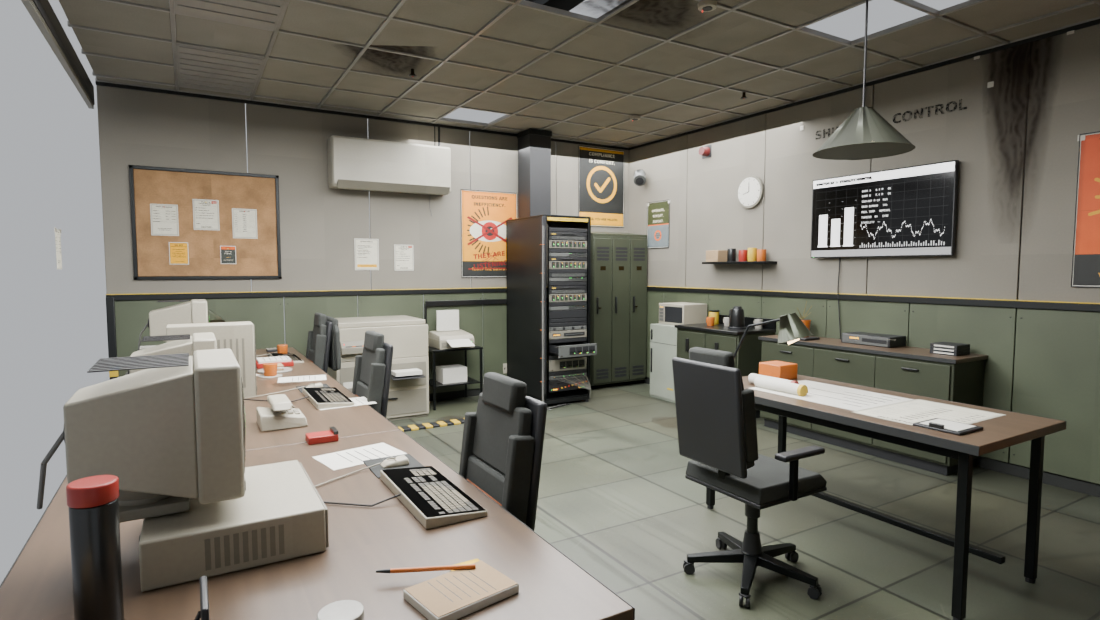
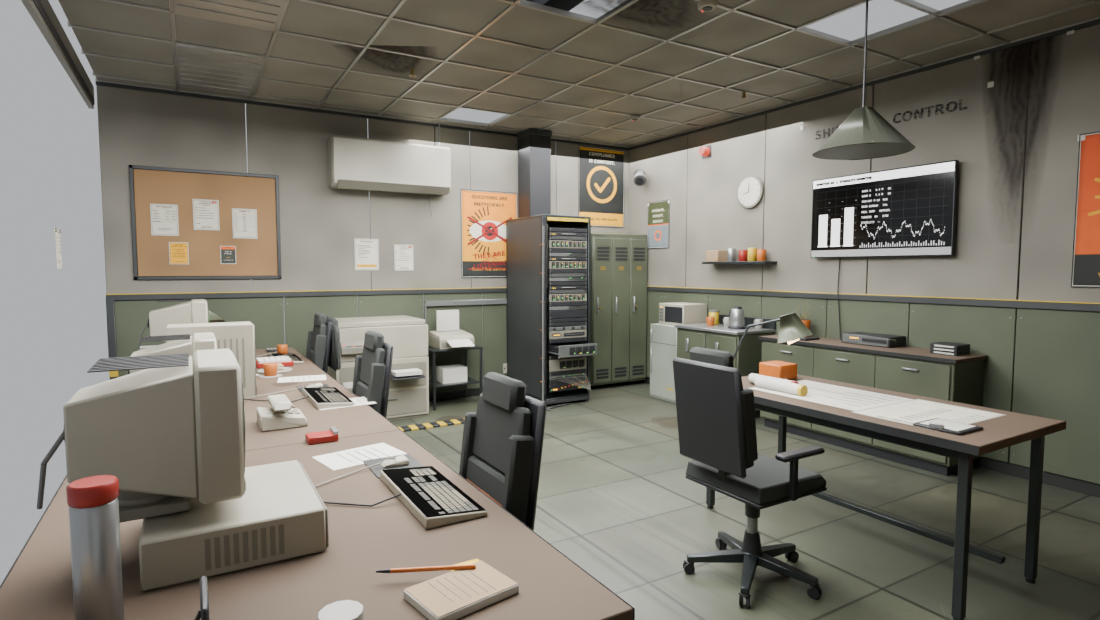
Control room: seven shared material families (63 -> 31 materials), vertex-colour delivery
Claude-Session: https://claude.ai/code/session_01MZn6W3mktoSNAd4EhQyGwJ

diff --git a/sections/reactor-room/production/overhaul-R1/scripts/cr_families.py b/sections/reactor-room/production/overhaul-R1/scripts/cr_families.py
@@ -1,0 +1,111 @@
+"""Shared material families for the control room (design/MATERIAL_BUDGETS.md, approved budgets).
+usage: python cr_families.py -- <in.blend> <out.blend>   (run after cr_build, cr_optimize and cr_atlas_decals)
+Every procedural spawn-recipe material ('pm' materials carry their recipe as pm_* custom props) is replaced by ONE of seven family materials.
+The per-surface values of the old recipe travel on the mesh instead of in a material:
+    colour attribute 'Col'  = RGB base colour (linear), A = roughness
+    colour attribute 'Mat'  = R metallic, G bump strength, B albedo-variation strength, A painted-edge highlight (0/1)
+The family shader reads those two attributes (same recipe: low-frequency albedo variation, fine grain, roughness noise, fine bump, bevel-edge
+highlight), so one material draws what used to be many.  Objects of the same group and family are then joined.
+Emissive, image (decals, screens, keyboard), glass and haze materials are NOT touched here (next step of the budget).
+In an engine the two attributes collapse to the glTF vertex colour (tint + roughness) plus a baked family tile; the Cycles bevel highlight is not exported."""
+import bpy,sys,os,re,collections
+import numpy as np
+A=sys.argv[sys.argv.index("--")+1:]; SRC,DST=A[0],A[1]
+bpy.ops.wm.open_mainfile(filepath=SRC)
+C=bpy.data.collections["31 CR CONTROL ROOM REDO"]
+FAM=[  # (family, noise scale for the low-frequency variation, regexes of the old materials)
+ ("S01 painted metal",2.5,r"hazard|signal red|locker|lamp shade|fridge|aircon|trim charcoal|desk edge|mug"),
+ ("S02 bare metal",3.0,r"galvanised|graphite|brass|ceiling grid"),
+ ("S03 plaster and tile",2.0,r"wall |ceiling tile"),
+ ("S05 plastic and rubber",2.5,r"black plastic|grey plastic|platinum|keycap|rubber"),
+ ("S06 fabric",3.0,r"fabric|canvas|blanket|pillow"),
+ ("S07 wood paper organic",4.0,r"laminate|cardboard|paper|cork|dead leaf|dry soil"),
+ ("S09 cable",3.0,r"cable"),
+]
+def family_of(name):
+    for fam,sc,rx in FAM:
+        if re.search(rx,name.lower().replace("cr ","",1)): return fam
+    return None
+def _n(nt,t,x=0,y=0):
+    n=nt.nodes.new(t); n.location=(x,y); return n
+def build_family(name,scale):
+    old=bpy.data.materials.get(name)
+    if old: bpy.data.materials.remove(old)
+    m=bpy.data.materials.new(name); m.use_nodes=True; nt=m.node_tree; nt.nodes.clear()
+    out=_n(nt,"ShaderNodeOutputMaterial",2000,0); b=_n(nt,"ShaderNodeBsdfPrincipled",1700,0); nt.links.new(b.outputs['BSDF'],out.inputs['Surface'])
+    col=_n(nt,"ShaderNodeAttribute",0,300); col.attribute_type='GEOMETRY'; col.attribute_name="Col"
+    mat=_n(nt,"ShaderNodeAttribute",0,-100); mat.attribute_type='GEOMETRY'; mat.attribute_name="Mat"
+    sepm=_n(nt,"ShaderNodeSeparateColor",250,-100); nt.links.new(mat.outputs['Color'],sepm.inputs[0])
+    geo=_n(nt,"ShaderNodeNewGeometry",0,-450)
+    nz=_n(nt,"ShaderNodeTexNoise",250,500); nz.inputs['Scale'].default_value=scale; nz.inputs['Detail'].default_value=2.0; nz.inputs['Roughness'].default_value=0.55
+    nt.links.new(geo.outputs['Position'],nz.inputs['Vector'])
+    mr=_n(nt,"ShaderNodeMapRange",450,500); mr.inputs['From Min'].default_value=0.32; mr.inputs['From Max'].default_value=0.68; mr.inputs['To Min'].default_value=0.87; mr.inputs['To Max'].default_value=1.05
+    nt.links.new(nz.outputs['Fac'],mr.inputs['Value'])
+    dv=_n(nt,"ShaderNodeMath",650,500); dv.operation='SUBTRACT'; dv.inputs[1].default_value=1.0; nt.links.new(mr.outputs['Result'],dv.inputs[0])
+    sv=_n(nt,"ShaderNodeMath",800,500); sv.operation='MULTIPLY_ADD'; sv.inputs[2].default_value=1.0; nt.links.new(dv.outputs['Value'],sv.inputs[0]); nt.links.new(sepm.outputs[2],sv.inputs[1])   # 1 + (v-1)*var
+    fz=_n(nt,"ShaderNodeTexNoise",250,150); fz.inputs['Scale'].default_value=70.0; fz.inputs['Detail'].default_value=3.0; nt.links.new(geo.outputs['Position'],fz.inputs['Vector'])
+    fm=_n(nt,"ShaderNodeMapRange",450,150); fm.inputs['From Min'].default_value=0.3; fm.inputs['From Max'].default_value=0.7; fm.inputs['To Min'].default_value=0.96; fm.inputs['To Max'].default_value=1.04
+    nt.links.new(fz.outputs['Fac'],fm.inputs['Value'])
+    g=_n(nt,"ShaderNodeMath",950,300); g.operation='MULTIPLY'; nt.links.new(sv.outputs['Value'],g.inputs[0]); nt.links.new(fm.outputs['Result'],g.inputs[1])
+    vs=_n(nt,"ShaderNodeVectorMath",1100,300); vs.operation='SCALE'; nt.links.new(col.outputs['Color'],vs.inputs[0]); nt.links.new(g.outputs['Value'],vs.inputs[3])
+    bev=_n(nt,"ShaderNodeBevel",900,-450); bev.inputs['Radius'].default_value=0.004; bev.samples=4
+    dt=_n(nt,"ShaderNodeVectorMath",1100,-450); dt.operation='DOT_PRODUCT'; nt.links.new(bev.outputs['Normal'],dt.inputs[0]); nt.links.new(geo.outputs['Normal'],dt.inputs[1])
+    em=_n(nt,"ShaderNodeMapRange",1300,-450); em.inputs['From Min'].default_value=0.9985; em.inputs['From Max'].default_value=0.94; nt.links.new(dt.outputs['Value'],em.inputs['Value'])
+    ef=_n(nt,"ShaderNodeMath",1450,-450); ef.operation='MULTIPLY'; nt.links.new(em.outputs['Result'],ef.inputs[0]); nt.links.new(mat.outputs['Alpha'],ef.inputs[1])
+    hi=_n(nt,"ShaderNodeVectorMath",1300,150); hi.operation='SCALE'; hi.inputs[3].default_value=1.35; nt.links.new(vs.outputs[0],hi.inputs[0])
+    mx=_n(nt,"ShaderNodeMix",1500,150); mx.data_type='RGBA'; nt.links.new(ef.outputs['Value'],mx.inputs[0]); nt.links.new(vs.outputs[0],mx.inputs[6]); nt.links.new(hi.outputs[0],mx.inputs[7])
+    nt.links.new(mx.outputs[2],b.inputs['Base Color']); nt.links.new(sepm.outputs[0],b.inputs['Metallic'])
+    rz=_n(nt,"ShaderNodeTexNoise",250,-800); rz.inputs['Scale'].default_value=4.0; rz.inputs['Detail'].default_value=2.0; nt.links.new(geo.outputs['Position'],rz.inputs['Vector'])
+    rr=_n(nt,"ShaderNodeMapRange",450,-800); rr.inputs['From Min'].default_value=0.3; rr.inputs['From Max'].default_value=0.7; rr.inputs['To Min'].default_value=0.9; rr.inputs['To Max'].default_value=1.1
+    nt.links.new(rz.outputs['Fac'],rr.inputs['Value'])
+    rm=_n(nt,"ShaderNodeMath",700,-800); rm.operation='MULTIPLY'; rm.use_clamp=True; nt.links.new(col.outputs['Alpha'],rm.inputs[0]); nt.links.new(rr.outputs['Result'],rm.inputs[1])
+    nt.links.new(rm.outputs['Value'],b.inputs['Roughness'])
+    bz=_n(nt,"ShaderNodeTexNoise",250,-1000); bz.inputs['Scale'].default_value=140.0; bz.inputs['Detail'].default_value=3.0; nt.links.new(geo.outputs['Position'],bz.inputs['Vector'])
+    bp=_n(nt,"ShaderNodeBump",1500,-800); bp.inputs['Distance'].default_value=0.02; nt.links.new(sepm.outputs[1],bp.inputs['Strength']); nt.links.new(bz.outputs['Fac'],bp.inputs['Height']); nt.links.new(bp.outputs['Normal'],b.inputs['Normal'])
+    return m
+fams={}; stats=collections.Counter(); skipped=collections.Counter()
+for fam,sc,_ in FAM: fams[fam]=build_family("CR FAM "+fam,sc)
+objs=[o for o in C.all_objects if o.type=='MESH']
+for o in objs:
+    me=o.data; mt=list(me.materials)
+    tgt=[None]*len(mt)
+    for i,m in enumerate(mt):
+        if m is not None and m.get("pm_base") is not None:
+            f=family_of(m.name)
+            if f: tgt[i]=f
+            else: skipped[m.name]+=1
+    if not any(tgt): continue
+    L=len(me.loops); col=np.tile(np.array([0.5,0.5,0.5,0.5],dtype=np.float32),(L,1)); mat=np.tile(np.array([0,0.06,1,0],dtype=np.float32),(L,1))
+    for p in me.polygons:
+        i=p.material_index
+        if i<len(mt) and tgt[i]:
+            m=mt[i]; b=m["pm_base"]; li=list(p.loop_indices)
+            col[li]=(b[0],b[1],b[2],m["pm_rough"]); mat[li]=(m["pm_metal"],m["pm_bump"],m["pm_var"],1.0 if len(m["pm_edge"]) else 0.0)
+            stats[m.name]+=len(li)
+    for nm,arr in (("Col",col),("Mat",mat)):
+        ca=me.color_attributes.get(nm) or me.color_attributes.new(nm,'FLOAT_COLOR','CORNER'); ca.data.foreach_set("color",arr.reshape(-1))
+    # slots: one per family, untouched materials keep theirs
+    new=[fams[t] if t else m for t,m in zip(tgt,mt)]; uniq=[]
+    for m in new:
+        if m not in uniq: uniq.append(m)
+    idx=[uniq.index(m) for m in new]
+    for p in me.polygons: p.material_index=idx[p.material_index] if p.material_index<len(idx) else 0
+    me.materials.clear()
+    for m in uniq: me.materials.append(m)
+# join objects of the same (group, family) that carry exactly one material
+def group(o): mm=re.match(r"CR (\w+)",o.name); return mm.group(1) if mm else ""
+SKIP=("tv","text","beacon","haze","COL","glassnote","grime","marks")
+by=collections.defaultdict(list)
+for o in [o for o in C.all_objects if o.type=='MESH' and not o.name.startswith(("COL ","CR haze"))]:
+    if len(o.data.materials)==1 and o.data.materials[0] in fams.values() and group(o) not in SKIP and not o.animation_data and o.data.uv_layers:
+        o.data.uv_layers[0].name="UVMap"; by[(group(o),o.data.materials[0].name)].append(o)
+for (g,mn),lst in by.items():
+    if len(lst)<2: continue
+    for o in bpy.context.view_layer.objects: o.select_set(False)
+    for o in lst: o.select_set(True)
+    bpy.context.view_layer.objects.active=lst[0]; bpy.ops.object.join(); lst[0].name="CR %s %s"%(g,mn[7:].split(" ")[0])
+for m in [m for m in bpy.data.materials if m.get("pm_base") is not None and m.users==0]: bpy.data.materials.remove(m)
+used={x.name for o in C.all_objects if o.type=='MESH' for x in o.data.materials if x}
+print("families built",len(fams),"; old recipe materials replaced:",len(stats),"; left alone (no family rule):",dict(skipped))
+print("control-room materials in use now:",len(used),"; mesh objects:",sum(1 for o in C.all_objects if o.type=='MESH' and not o.name.startswith(("COL ","CR haze"))))
+bpy.ops.wm.save_as_mainfile(filepath=DST)

diff --git a/sections/reactor-room/production/overhaul-R1/scripts/cr_delivery.py b/sections/reactor-room/production/overhaul-R1/scripts/cr_delivery.py
@@ -47,7 +47,8 @@ plan={}
 for m in mats:
     b=principled(m)
     if b is None: plan[m.name]="keep"; continue
-    if m.name=="CR floor tile": plan[m.name]="floor"
+    if m.name.startswith("CR FAM "): plan[m.name]="family"
+    elif m.name=="CR floor tile": plan[m.name]="floor"
     elif emission_strength(m)>0.05 and not b.inputs['Emission Color'].is_linked: plan[m.name]="emit"
     elif emission_strength(m)>0.05: plan[m.name]="emit_img"
     elif uv_image(m) is not None: plan[m.name]="keep"
@@ -73,6 +74,20 @@ if any(v=="bake" for v in plan.values()):
         im.pack(); tiles[name]=im; bpy.data.materials.remove(mc)
     bpy.data.objects.remove(po); bpy.data.meshes.remove(me)
 print("baked",len(tiles),"tiles in %.0f s"%(time.time()-bake_t))
+# families (cr_families.py): colour+roughness live on the mesh ('Col' RGB base, A roughness; 'Mat' R metallic) -> glTF COLOR_0 x one shared neutral grain tile
+fam_stats={}
+for o in src:
+    me=o.data
+    if "Col" not in me.color_attributes: continue
+    L=len(me.loops); ca=np.empty(L*4,dtype=np.float32); me.color_attributes["Col"].data.foreach_get("color",ca); ca=ca.reshape(-1,4)
+    ma=np.empty(L*4,dtype=np.float32); me.color_attributes["Mat"].data.foreach_get("color",ma); ma=ma.reshape(-1,4)
+    for p in me.polygons:
+        sm=o.material_slots[p.material_index].material if p.material_index<len(o.material_slots) else None
+        if sm is not None and plan.get(sm.name)=="family":
+            li=list(p.loop_indices); r,mt_,n=fam_stats.get(sm.name,(0.0,0.0,0)); fam_stats[sm.name]=(r+float(ca[li,3].sum()),mt_+float(ma[li,0].sum()),n+len(li))
+rng=np.random.default_rng(7); g=rng.random((64,64)).astype(np.float32); g=np.fft.irfft2(np.fft.rfft2(g)*np.exp(-((np.fft.fftfreq(64)[:,None]**2)+(np.fft.rfftfreq(64)[None,:]**2))*900),s=g.shape); g=(g-g.mean())/(g.std()+1e-6)
+g=np.repeat(np.repeat(np.clip(0.96+0.03*g,0.88,1.06),4,0),4,1)                     # 256 px neutral +-4% mottling, tileable enough at 1.2 m
+grain=bpy.data.images.new("CR family grain",256,256,alpha=False); grain.colorspace_settings.name='Non-Color'; grain.pixels.foreach_set(np.dstack([g,g,g,np.ones_like(g)]).astype(np.float32).reshape(-1)); grain.pack()
 def rough_of(m):
     b=principled(m)
     if b is None: return 0.6
@@ -96,10 +111,21 @@ def mk(name,base=None,tile=None,rough=0.6,metal=0.0,emit=None,emit_str=0.0,uvsca
     if emit is not None:
         b.inputs['Emission Color'].default_value=(*emit[:3],1); b.inputs['Emission Strength'].default_value=emit_str
     return m
+def mk_family(name,rough,metal):
+    m=bpy.data.materials.new(name); m.use_nodes=True; nt=m.node_tree; nt.nodes.clear()
+    out=nt.nodes.new("ShaderNodeOutputMaterial"); b=nt.nodes.new("ShaderNodeBsdfPrincipled"); nt.links.new(b.outputs['BSDF'],out.inputs['Surface'])
+    b.inputs['Roughness'].default_value=rough; b.inputs['Metallic'].default_value=metal
+    vc=nt.nodes.new("ShaderNodeVertexColor"); vc.layer_name="Col"
+    uvn=nt.nodes.new("ShaderNodeUVMap"); uvn.uv_map="UVMap"; tx=nt.nodes.new("ShaderNodeTexImage"); tx.image=grain; tx.extension='REPEAT'; nt.links.new(uvn.outputs['UV'],tx.inputs[0])
+    mx=nt.nodes.new("ShaderNodeMix"); mx.data_type='RGBA'; mx.blend_type='MULTIPLY'; mx.inputs[0].default_value=1.0
+    nt.links.new(vc.outputs['Color'],mx.inputs[6]); nt.links.new(tx.outputs['Color'],mx.inputs[7]); nt.links.new(mx.outputs[2],b.inputs['Base Color'])
+    return m
 newmat={}; report_mats=collections=None
 for name,kind in plan.items():
     m=bpy.data.materials[name]; b=principled(m)
     if kind=="keep": newmat[name]=m
+    elif kind=="family":
+        r,mt_,n=fam_stats.get(name,(0.6,0.0,1)); newmat[name]=mk_family("D "+name,r/max(n,1),mt_/max(n,1))
     elif kind=="bake": newmat[name]=mk("D "+name,tile=tiles[name],rough=rough_of(m),metal=b.inputs['Metallic'].default_value)
     elif kind=="floor":
         img=next(n.image for n in m.node_tree.nodes if n.type=='TEX_IMAGE'); newmat[name]=mk("D "+name,img=img,rough=0.42,uvscale=(1/1.2,1/1.2,1/1.2))
@@ -112,6 +138,8 @@ for name,kind in plan.items():
 dcol=bpy.data.collections.new("CR_DELIVERY_COPIES"); sc.collection.children.link(dcol); copies=[]
 for o in src:
     c=o.copy(); c.data=o.data.copy(); c.name="D_"+o.name; dcol.objects.link(c); copies.append(c)
+    if "Mat" in c.data.color_attributes: c.data.color_attributes.remove(c.data.color_attributes["Mat"])      # a second colour attribute makes the glTF exporter write white COLOR_0 (tested); the Mat values are family constants in the export
+    if "Col" in c.data.color_attributes: c.data.color_attributes.active_color=c.data.color_attributes["Col"]; c.data.color_attributes.render_color_index=c.data.color_attributes.find("Col")
     for i,s in enumerate(c.material_slots):
         if s.material: c.data.materials[i]=newmat[s.material.name]
 bpy.ops.object.select_all(action='DESELECT')
@@ -139,6 +167,22 @@ imats={m.name for o in imp for m in o.data.materials if m};
 rep.update({"reimport_objects":len(imp),"reimport_triangles":i_tris,"reimport_bounds_min":i_min.round(4).tolist(),"reimport_bounds_max":i_max.round(4).tolist(),
             "bounds_max_abs_diff_m":float(max(np.abs(i_min-src_min).max(),np.abs(i_max-src_max).max())),"reimport_materials":len(imats),"reimport_uv_loops_at_origin_pct":round(100*uvz/max(1,uvt),1),
             "reimport_images":len([i for i in bpy.data.images if i.size[0]>0 and i.name not in("Render Result","Viewer Node")])})
+# a glTF-compliant engine multiplies COLOR_0 into the base colour; Blender's importer keeps the attribute but not the multiply, so the check render adds it
+vc_prims=0
+for o in imp:
+    ca=o.data.color_attributes
+    if len(ca)==0: continue
+    vc_prims+=1; nm=ca[0].name
+    for m in o.data.materials:
+        if not m or not m.use_nodes: continue
+        nt=m.node_tree; b=next((n for n in nt.nodes if n.type=='BSDF_PRINCIPLED'),None)
+        if b is None or any(n.type=='VERTEX_COLOR' for n in nt.nodes): continue
+        vcn=nt.nodes.new("ShaderNodeVertexColor"); vcn.layer_name=nm; mx=nt.nodes.new("ShaderNodeMix"); mx.data_type='RGBA'; mx.blend_type='MULTIPLY'; mx.inputs[0].default_value=1.0
+        lk=b.inputs['Base Color'].links
+        if lk: nt.links.new(lk[0].from_socket,mx.inputs[6])
+        else: mx.inputs[6].default_value=b.inputs['Base Color'].default_value
+        nt.links.new(vcn.outputs['Color'],mx.inputs[7]); nt.links.new(mx.outputs[2],b.inputs['Base Color'])
+rep["reimport_objects_with_vertex_colour"]=vc_prims
 if RENDER:
     sc=bpy.context.scene; sc.render.engine='CYCLES'; sc.cycles.device='CPU'; sc.cycles.samples=16; sc.cycles.use_denoising=True
     w=bpy.data.worlds.new("w"); w.use_nodes=True; w.node_tree.nodes["Background"].inputs[0].default_value=(0.55,0.57,0.6,1); w.node_tree.nodes["Background"].inputs[1].default_value=1.0; sc.world=w

diff --git a/sections/reactor-room/production/overhaul-R1/scripts/crk.py b/sections/reactor-room/production/overhaul-R1/scripts/crk.py
@@ -146,6 +146,8 @@ def _scale(c,k): return (c[0]*k,c[1]*k,c[2]*k,1.0)
 def pm(name,base,rough=0.5,metal=0.0,var=(0.87,1.05),scale=2.5,bump=0.06,edge=None,edge_w=0.004,grime=0.0,rvar=0.10,coat=0.0,grain=0.04,zfloor=5.4,aniso=None):
     """spawn-room recipe: Principled BSDF, low-frequency noise albedo variation, fine bump on non-metals, painted edge highlight, floor grime."""
     m=_new(name); nt=m.node_tree
+    m["pm_base"]=[float(c) for c in base[:3]]; m["pm_rough"]=float(rough); m["pm_metal"]=float(metal); m["pm_bump"]=float(bump if metal<0.5 else 0.0)      # recipe parameters, read by cr_families.py
+    m["pm_var"]=float((var[1]-var[0])/0.18); m["pm_edge"]=[float(c) for c in edge[:3]] if edge else []
     out=_n(nt,"ShaderNodeOutputMaterial",1900,0); b=_n(nt,"ShaderNodeBsdfPrincipled",1650,0); nt.links.new(b.outputs['BSDF'],out.inputs['Surface'])
     b.inputs['Metallic'].default_value=metal
     if coat>0: b.inputs['Coat Weight'].default_value=coat; b.inputs['Coat Roughness'].default_value=0.25

diff --git a/sections/reactor-room/production/overhaul-R1/BUDGET.md b/sections/reactor-room/production/overhaul-R1/BUDGET.md
@@ -87,3 +87,17 @@ Not changed: **materials** (132 in the file, 85 in the control room, target 40: 
 
 Module file: 132 -> 109 materials, 1,704 -> 1,676 objects. Triangles unchanged (74,613 in and out of the glTF round trip, bounds 0.0 m, 0.2% of UV loops at the origin). Same four views before/after: mean pixel difference 0.004-0.006, no block above 0.07.
 Still over target: **materials** (63 in the control room, 109 in the file, target 40 - the procedural surfaces, 13 blinking LED variants and screens remain separate), **draw calls** (200 control-room objects after the merges; module-wide target 800 not met). Nothing is engine-measured.
+
+## Material families, step 1 (budgets in `design/MATERIAL_BUDGETS.md`, approved by the owner)
+
+`scripts/cr_families.py` replaces the 39 procedural spawn-recipe materials of the control room with 7 shared family materials (S01 painted metal, S02 bare metal, S03 plaster and tile, S05 plastic and rubber, S06 fabric, S07 wood/paper/organic, S09 cable). The recipe values travel on the mesh: colour attribute `Col` (RGB base colour, A roughness) and `Mat` (R metallic, G bump, B variation, A edge highlight). Objects of the same group and family are joined.
+Delivery (`cr_delivery.py`): a family exports as one glTF material (shared neutral grain tile) multiplied by `COLOR_0` (the `Mat` attribute is removed on the export copies because a second colour attribute makes the exporter write white, tested). The round trip multiplies `COLOR_0` into the base colour the way a glTF-compliant engine does; Blender's importer does not, so the check render adds it.
+
+| State | Control-room materials | Mesh objects | glTF materials / images (round trip) | glb |
+|---|---:|---:|---:|---:|
+| Before step 1 | 63 | 200 | 64 / 49 | 11.7 MB |
+| After step 1 | 31 | 120 | 32 / 11 | 10.9 MB |
+
+Same four views before/after: mean pixel difference 0.006-0.008, no block above 0.07; the round-trip render (family materials via `COLOR_0`) was opened and keeps the colours, the cork board, the decals and the wall dado. Triangles unchanged (74,613 in and out, bounds 0.0 m).
+Lost in the glTF export (Cycles-only): per-material mottling scale, bevel edge highlight, bump; the neutral grain tile replaces the mottling. Not lost in the Blender scene.
+Still over the control-room cap of 16: 31 materials. What remains: 16 emissive materials (13 blinking LEDs, tubes, beacon, lamps), 4 emissive screens (3 CRTs, TV), the decal atlas, floor tile, keyboard plane, glass, haze, 2 baked. Next steps: one emissive family with shader-clock blink (design item 7), one screen shader with an indexed atlas (item 8), floor into S04, glass into S13. Nothing is engine-measured.

diff --git a/sections/reactor-room/production/overhaul-R1/README.md b/sections/reactor-room/production/overhaul-R1/README.md
@@ -218,3 +218,7 @@ All control-room motion (TV cycle, slideshow, LED blink, troffer stutter, CRT sh
 ### Real-time lights and decal atlas
 
 Order after `cr_build.py`: `cr_optimize.py` -> `cr_atlas_decals.py` -> `cr_rt_lights.py` (then `cr_verify.py`, `cr_delivery.py`, `cr_runtime_spec.py`). `cr_rt_lights.py` keeps 6 dynamic lights (2 with shadows) and bakes the other 12 at rest value (spec: `control_room_light_budget.json/.md`); `cr_atlas_decals.py` packs 24 decal/poster/notice materials into one atlas material. Materials in the control room: 85 -> 63 (target 40 not met); see `BUDGET.md`.
+
+### Material families
+
+Order after `cr_build.py`: `cr_optimize.py` -> `cr_atlas_decals.py` -> `cr_families.py` -> `cr_rt_lights.py`. `cr_families.py` maps the 39 procedural recipes to 7 shared family materials and keeps their values on the mesh (`Col`, `Mat` colour attributes); `crk.pm` records each recipe's parameters as `pm_*` custom props for it. Control-room materials 63 -> 31 (cap 16, see `BUDGET.md`). Do not add a second colour attribute to export copies: the glTF exporter then writes white `COLOR_0`.
